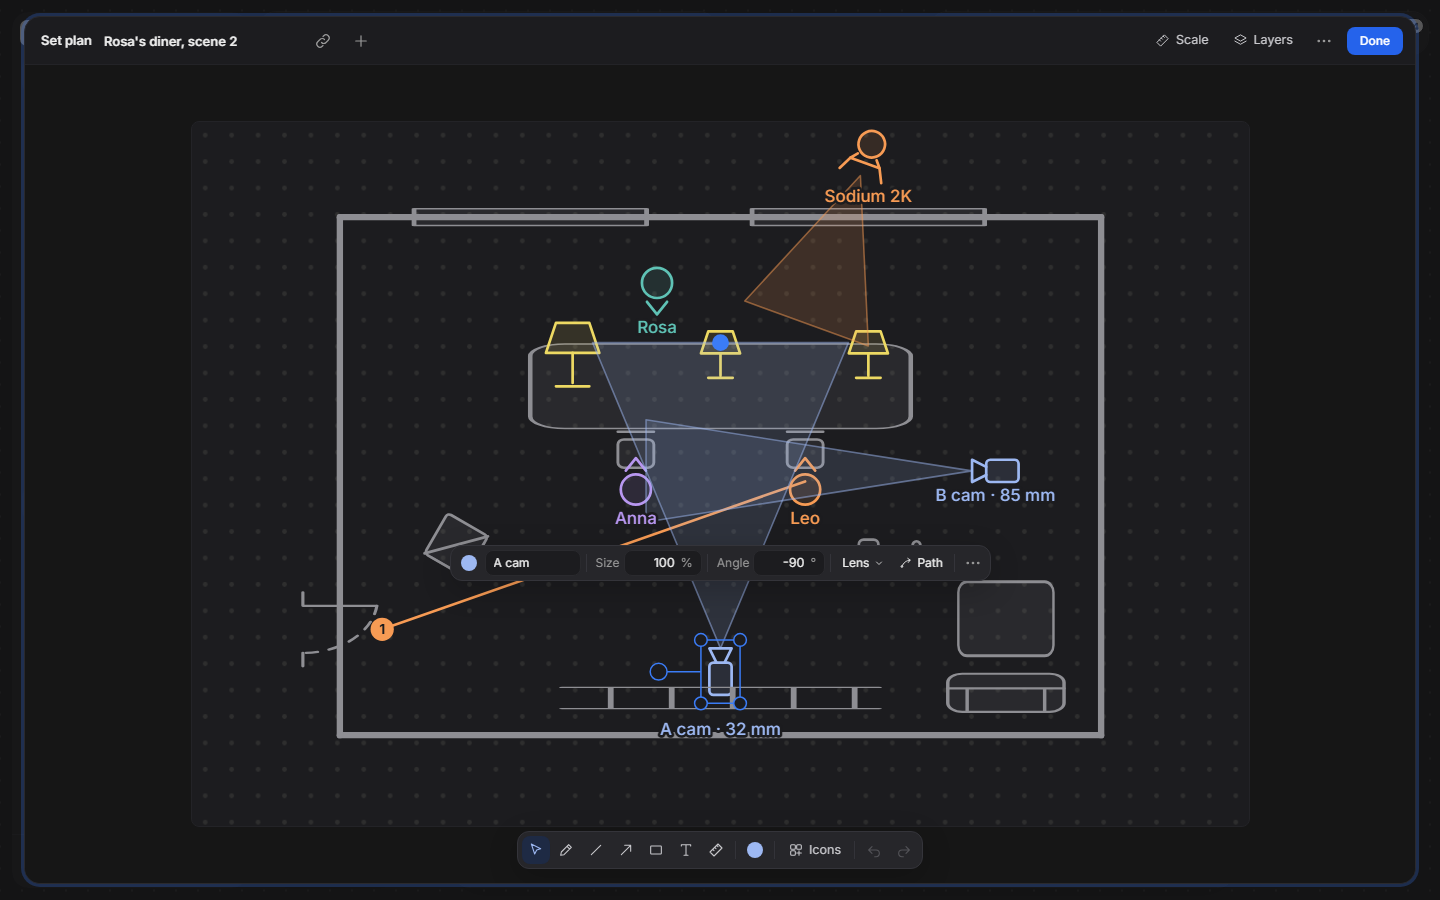
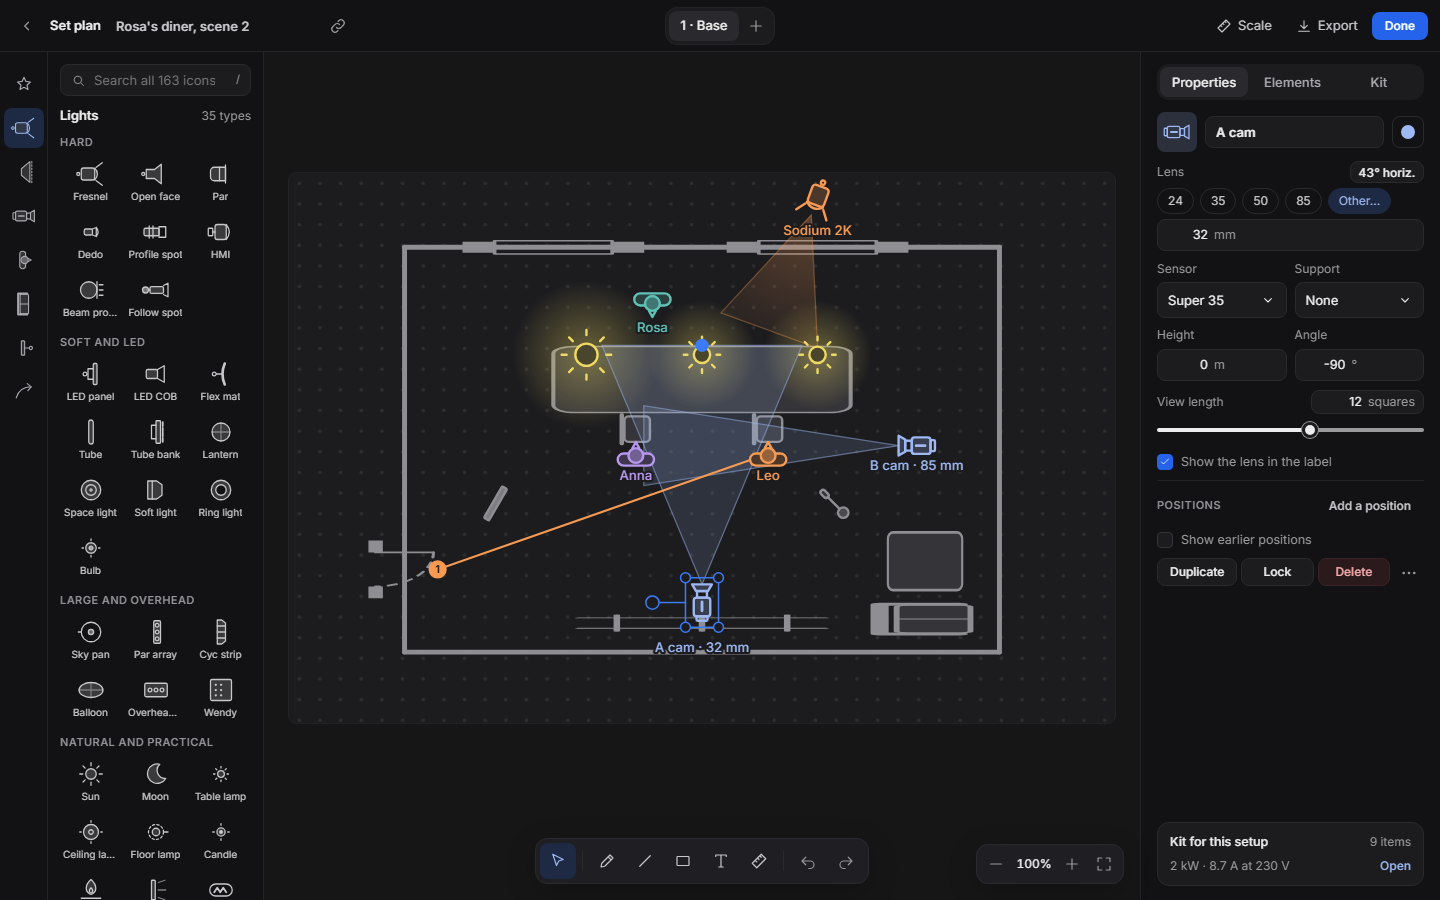
Regenerate the guide's set plan screenshots

diff --git a/e2e/scripts/screenshots.ts b/e2e/scripts/screenshots.ts
@@ -116,7 +116,7 @@ async function shootGuide(page: Page, sample: SampleProject, theme: Theme) {
   await page.locator('.pen').waitFor();
   await save(page, file('draw'));
 
-  // The set plan with the camera selected: both bars.
+  // The set plan with the camera selected: its properties in the right panel.
   await fit(page, canvas(setPlan.id));
   await page.locator(`[data-el="${planId}"]`).dblclick();
   const stage = page.getByRole('dialog').locator('.plan-editor__stage');
